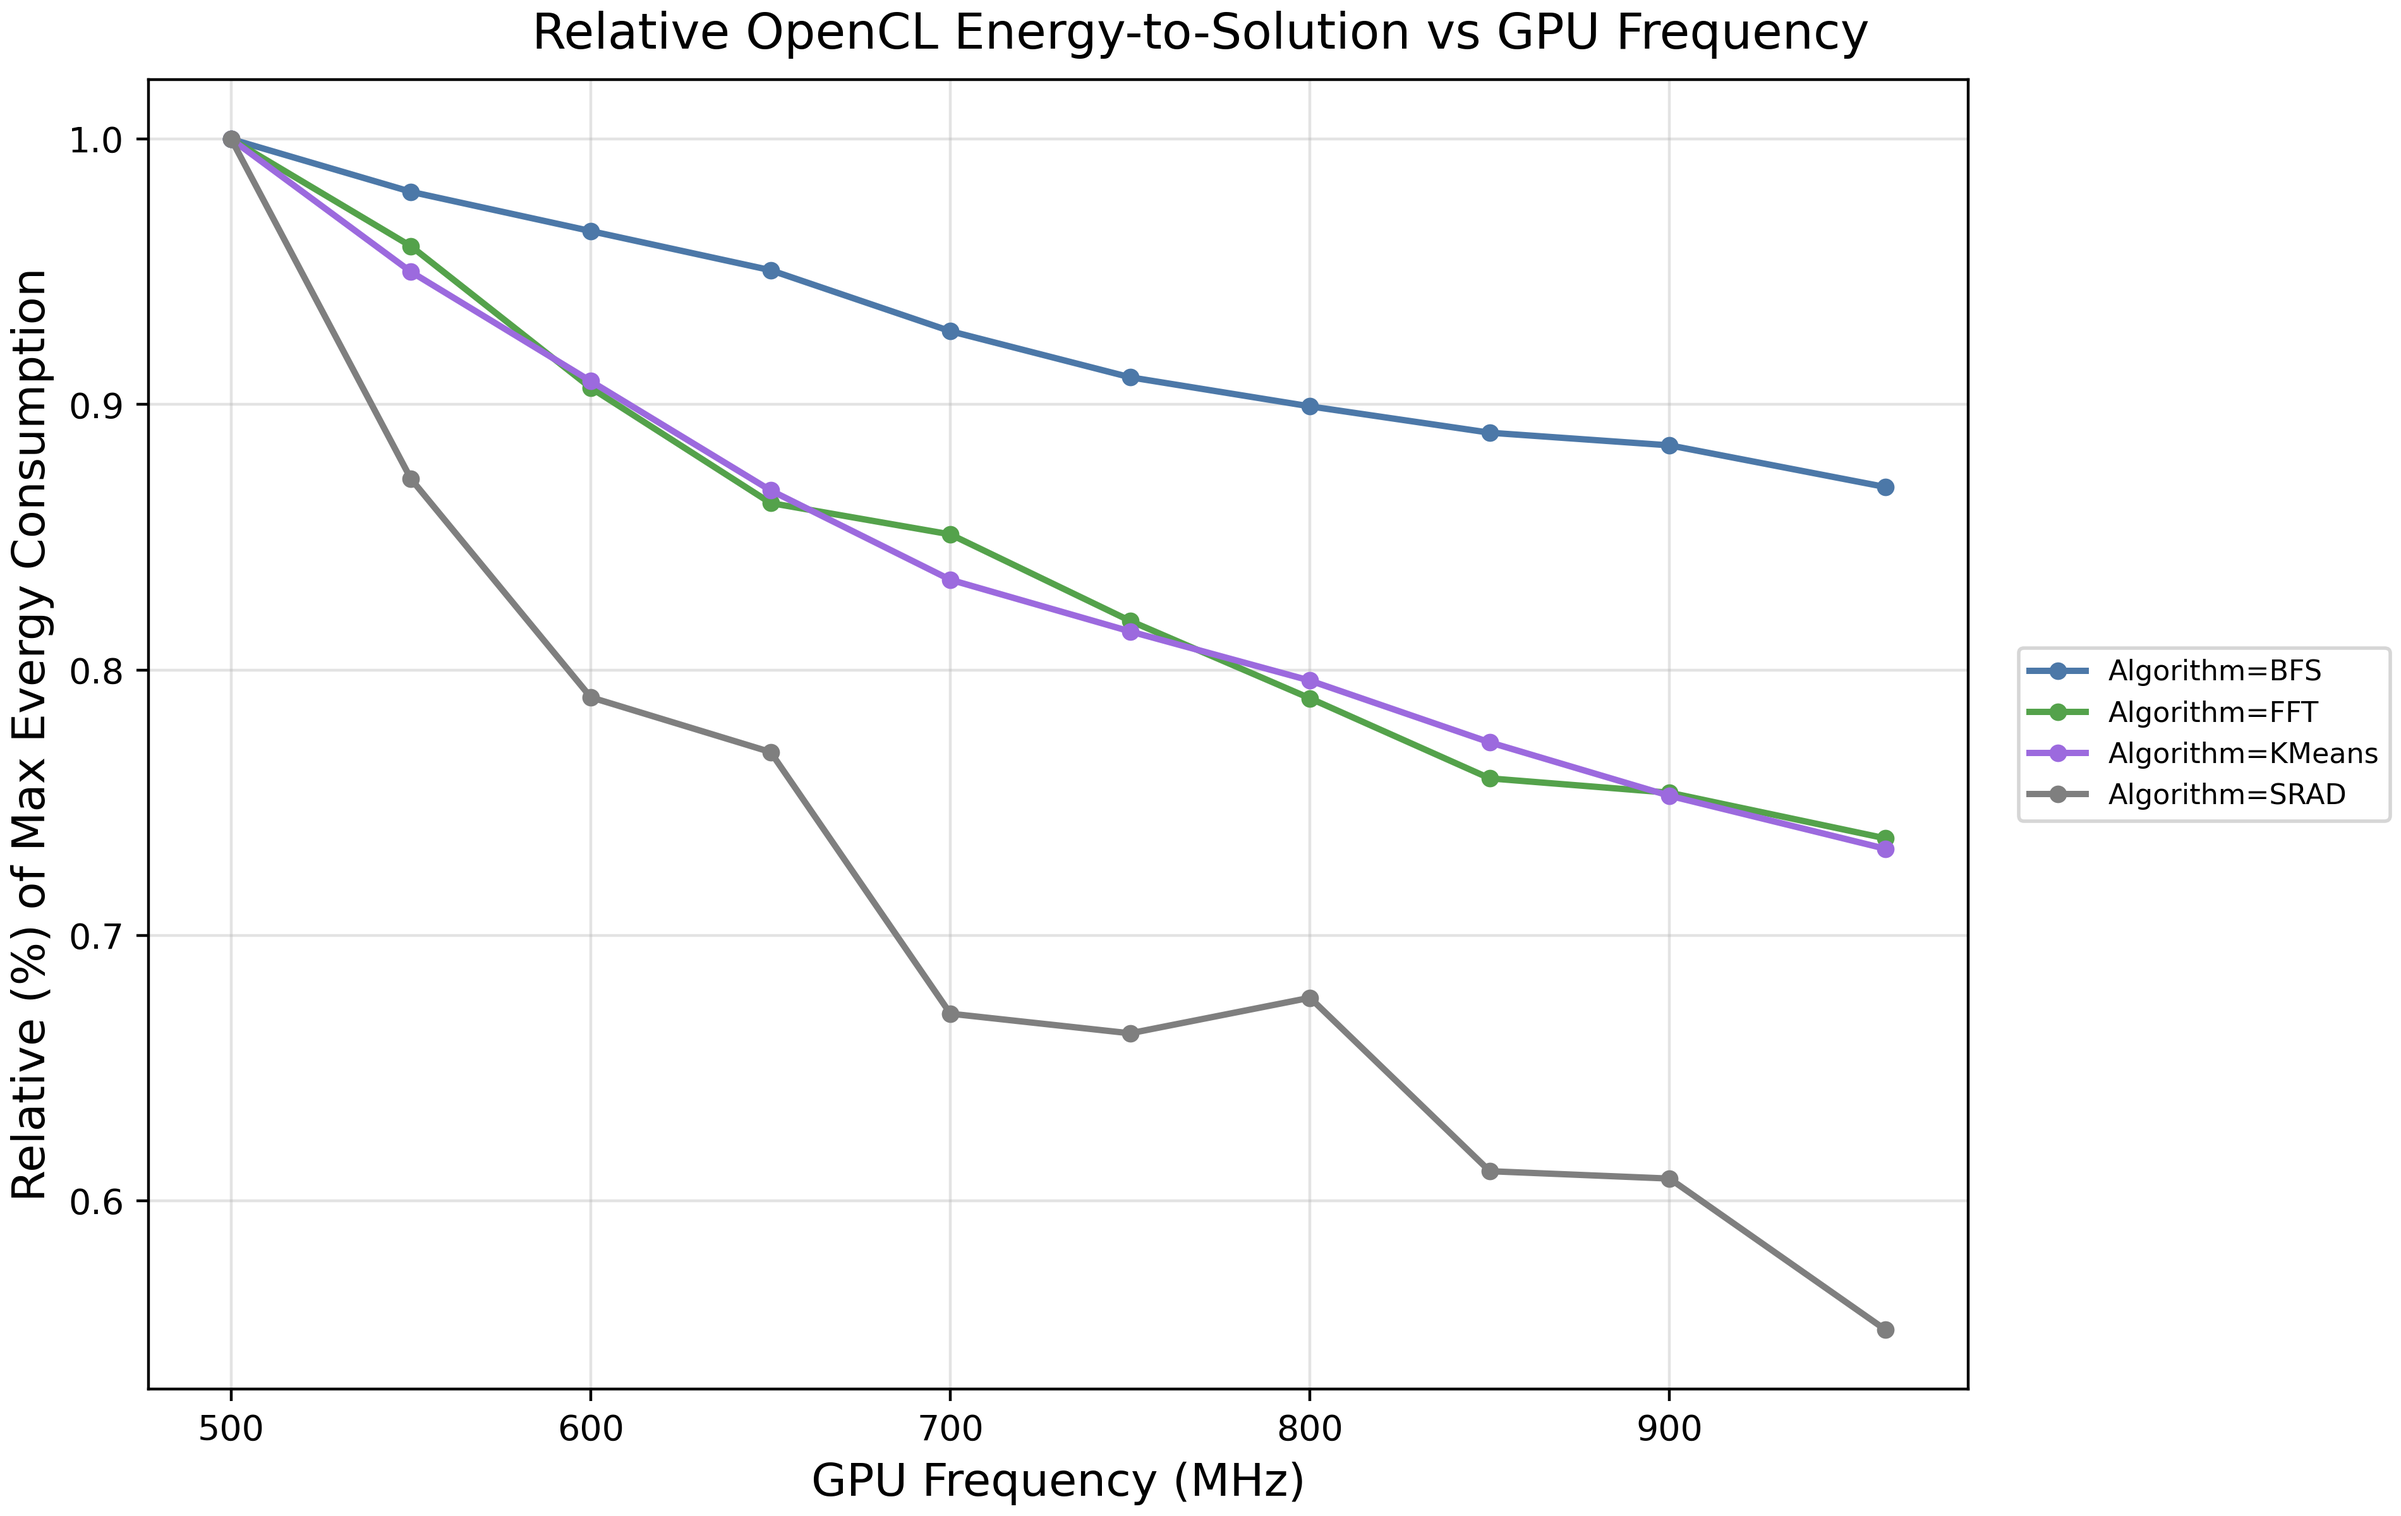
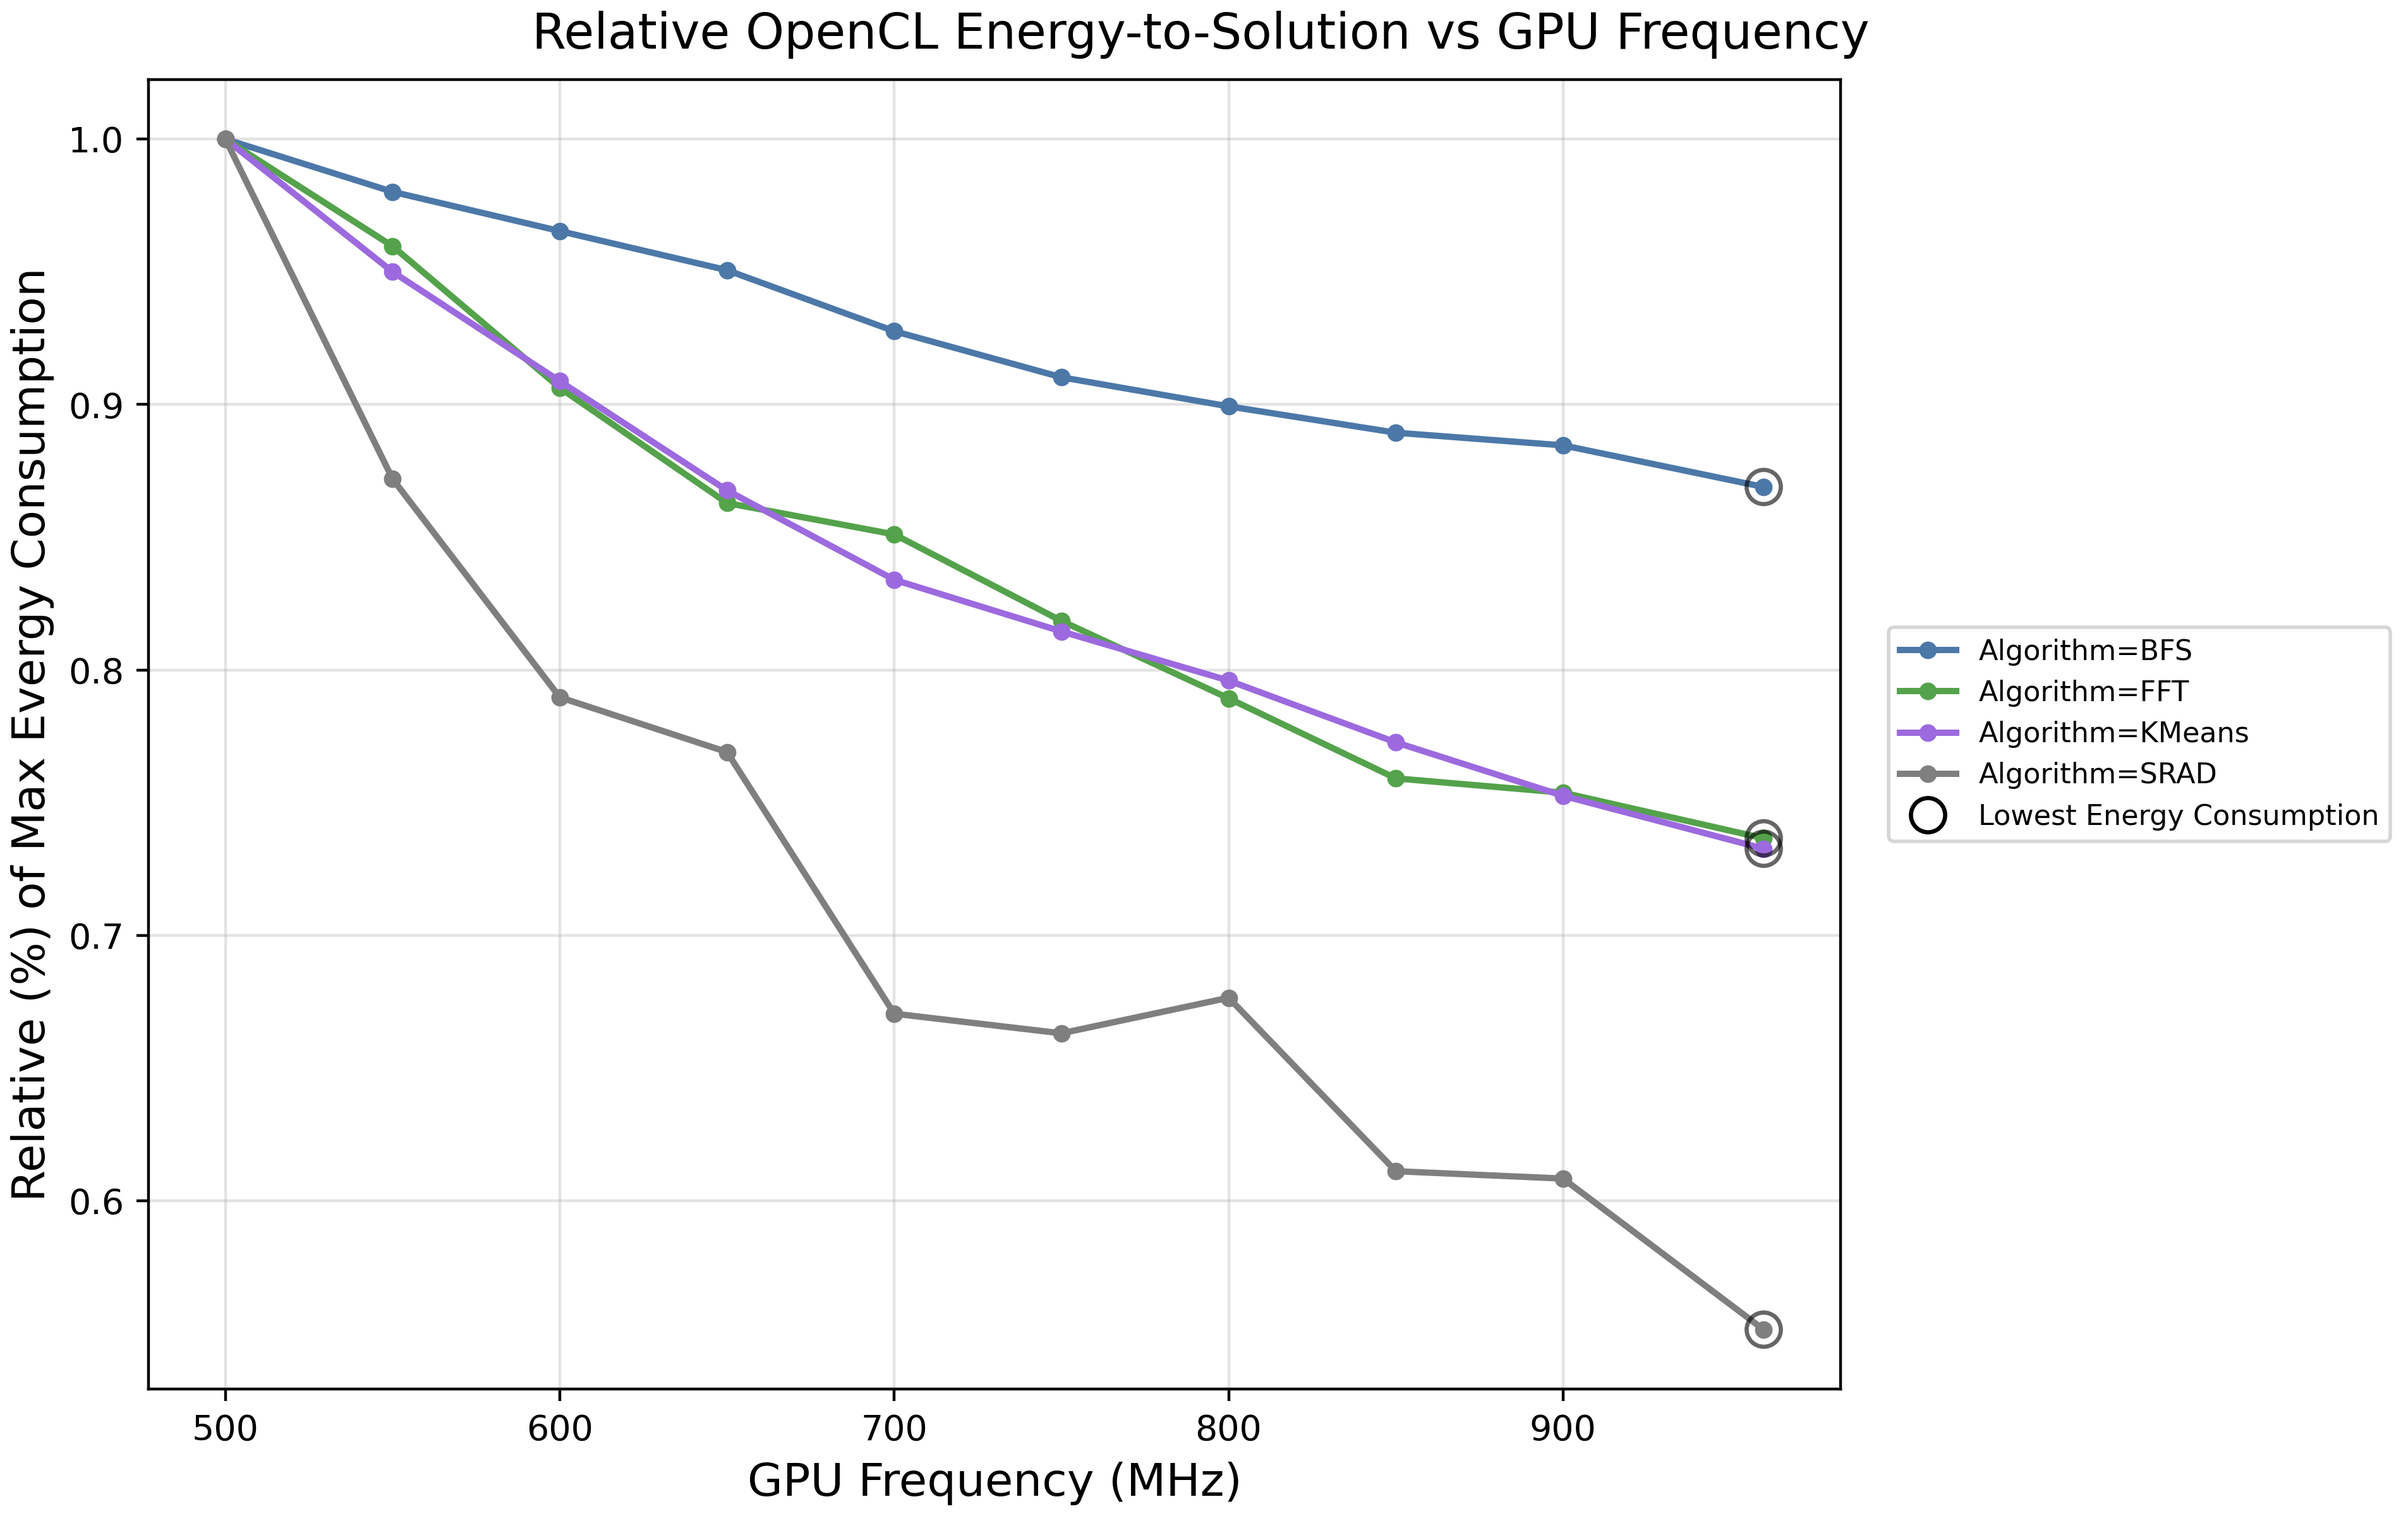
not sure

diff --git a/graph_tool_v2_series.py b/graph_tool_v2_series.py
@@ -15,6 +15,7 @@ This is intentionally compact. Treat it as a starting point rather than a framew
 from __future__ import annotations
 
 from dataclasses import dataclass, field
+import math
 from pathlib import Path
 import textwrap
 from typing import Any, Callable, Iterable, Sequence, Optional, Literal, Union
@@ -222,6 +223,17 @@ class PlotSpec:
     shade_values: Optional[dict[Any, float]] = None
     category_orders: dict[str, list[Any]] = field(default_factory=dict)
     value_aliases: dict[str, dict[Any, str]] = field(default_factory=dict)
+
+    highlight_highest_by: Optional[Union[str, Sequence[str]]] = None
+    highlight_lowest_by: Optional[Union[str, Sequence[str]]] = None
+
+    highlight_size: float = 95.0
+    highlight_linewidth: float = 1.2
+    highlight_color: str = "black"
+    highlight_alpha: float = 0.6
+
+    highlight_highest_label: Optional[str] = None
+    highlight_lowest_label: Optional[str] = None
 
 
 
@@ -514,6 +526,8 @@ class Plotter:
                     **style,
                 )
 
+        self._apply_highlight_extrema(df, ax, spec)
+
         self._finish(fig, ax, spec)
 
     def _scatter(self, df: pd.DataFrame, spec: PlotSpec) -> None:
@@ -543,6 +557,9 @@ class Plotter:
             style = styles[key]
 
             ax.scatter(group[spec.x], group[spec.y], label=label, **style)
+
+        self._apply_highlight_extrema(df, ax, spec)
+
         self._finish(fig, ax, spec)
             
 
@@ -584,6 +601,177 @@ class Plotter:
         plt.tight_layout()
         plt.savefig(spec.output, dpi=400)
         plt.close()
+
+    # ---------- helpers for highlighting highest lowest point 
+    def _groupby_cols(self, df, cols):
+        """
+        Like df.groupby(cols), but avoids awkward behavior for empty / single-column cases.
+        """
+        cols = self._as_list(cols)
+
+        if not cols:
+            return [(None, df)]
+
+        if len(cols) == 1:
+            return list(df.groupby(cols[0], dropna=False, sort=True))
+
+        return list(df.groupby(cols, dropna=False, sort=True))
+
+
+    def _highlight_scope_label(self, cols) -> str:
+        cols = self._as_list(cols)
+
+        if not cols:
+            return "all data"
+
+        return ", ".join(self.label_for(c) for c in cols)
+
+
+    def _add_highlight_legend_entry(
+        self,
+        ax,
+        *,
+        label: str,
+        color: str,
+        size: float,
+        linewidth: float,
+    ) -> None:
+        """
+        Add an empty artist so the highlight explanation appears at the bottom
+        of the normal legend.
+        """
+        ax.plot(
+            [],
+            [],
+            linestyle="None",
+            marker="o",
+            markerfacecolor="none",
+            markeredgecolor=color,
+            markeredgewidth=linewidth,
+            markersize=math.sqrt(size),
+            label=label,
+        )
+
+
+    def _highlight_extrema(
+        self,
+        ax,
+        df,
+        spec,
+        *,
+        by,
+        mode: str,
+        color: str,
+        size: float,
+        linewidth: float,
+        alpha: float,
+    ) -> int:
+        """
+        Circle the highest or lowest y-value within each group defined by `by`.
+
+        mode: "max" or "min"
+        """
+        by_cols = self._as_list(by)
+
+        required = [spec.x, spec.y, *by_cols]
+        missing = [c for c in required if c not in df.columns]
+        if missing:
+            raise KeyError(f"Cannot highlight extrema; missing columns: {missing}")
+
+        count = 0
+
+        for _, group in self._groupby_cols(df, by_cols):
+            valid = group.dropna(subset=[spec.x, spec.y])
+
+            if valid.empty:
+                continue
+
+            if mode == "max":
+                idx = valid[spec.y].idxmax()
+            elif mode == "min":
+                idx = valid[spec.y].idxmin()
+            else:
+                raise ValueError(f"Unsupported extrema highlight mode: {mode}")
+
+            row = valid.loc[idx]
+
+            ax.scatter(
+                [row[spec.x]],
+                [row[spec.y]],
+                s=size,
+                marker="o",
+                facecolors="none",
+                edgecolors=color,
+                linewidths=linewidth,
+                alpha=alpha,
+                zorder=10,
+                label="_nolegend_",
+            )
+
+            count += 1
+
+        return count
+    
+    def _apply_highlight_extrema(self, df : pd.DataFrame, ax, spec: PlotSpec):
+        # Highlight lowest y-value within each requested group.
+        if spec.highlight_lowest_by is not None:
+            count = self._highlight_extrema(
+                ax,
+                df,
+                spec,
+                by=spec.highlight_lowest_by,
+                mode="min",
+                color=spec.highlight_color,
+                size=spec.highlight_size,
+                linewidth=spec.highlight_linewidth,
+                alpha=spec.highlight_alpha,
+            )
+
+            if count > 0:
+                scope = self._highlight_scope_label(spec.highlight_lowest_by)
+                label = (
+                    spec.highlight_lowest_label
+                    or f"circled: lowest {self.label_for(spec.y)} within {scope}"
+                )
+
+                self._add_highlight_legend_entry(
+                    ax,
+                    label=label,
+                    color=spec.highlight_color,
+                    size=spec.highlight_size,
+                    linewidth=spec.highlight_linewidth,
+                )
+
+        # Highlight highest y-value within each requested group.
+        if spec.highlight_highest_by is not None:
+            highest_size = spec.highlight_size * 1.35
+
+            count = self._highlight_extrema(
+                ax,
+                df,
+                spec,
+                by=spec.highlight_highest_by,
+                mode="max",
+                color=spec.highlight_color,
+                size=highest_size,
+                linewidth=spec.highlight_linewidth,
+                alpha=spec.highlight_alpha,
+            )
+
+            if count > 0:
+                scope = self._highlight_scope_label(spec.highlight_highest_by)
+                label = (
+                    spec.highlight_highest_label
+                    or f"circled: highest {self.label_for(spec.y)} within {scope}"
+                )
+
+                self._add_highlight_legend_entry(
+                    ax,
+                    label=label,
+                    color=spec.highlight_color,
+                    size=highest_size,
+                    linewidth=spec.highlight_linewidth,
+                )
 
 
 # ---- Common metric builders -------------------------------------------------

diff --git a/pi_plot_something.py b/pi_plot_something.py
@@ -204,6 +204,9 @@ if __name__ == "__main__":
 
         series_by=["Algorithm"],
 
+        highlight_lowest_by=["Algorithm"],
+        highlight_lowest_label="Lowest Runtime",
+
         hue_by="Algorithm",
 
         base_colors={
@@ -235,6 +238,9 @@ if __name__ == "__main__":
 
         series_by=["Algorithm"],
 
+        highlight_lowest_by=["Algorithm"],
+        highlight_lowest_label="Lowest Power",
+
         hue_by="Algorithm",
 
         base_colors={
@@ -263,6 +269,9 @@ if __name__ == "__main__":
         output="graphs/opencl_energy_j_by_gpu_freq.png",
 
         series_by=["Algorithm"],
+
+        highlight_lowest_by=["Algorithm"],
+        highlight_lowest_label="Lowest Energy Consumption",
 
         hue_by="Algorithm",
 
@@ -295,6 +304,9 @@ if __name__ == "__main__":
         output="graphs/openmp_runtime_by_cpu_freq.png",
 
         series_by=["Algorithm", "Variant"],
+
+        highlight_lowest_by=["Algorithm", "Variant"],
+        highlight_lowest_label="Lowest Runtime",
 
         hue_by="Algorithm",
         shade_by="Variant",
@@ -331,6 +343,9 @@ if __name__ == "__main__":
 
         series_by=["Algorithm", "Variant"],
 
+        highlight_lowest_by=["Algorithm", "Variant"],
+        highlight_lowest_label="Lowest Power",
+
         hue_by="Algorithm",
         shade_by="Variant",
         marker_by="Variant",
@@ -363,6 +378,9 @@ if __name__ == "__main__":
         output="graphs/openmp_energy_j_by_cpu_freq.png",
 
         series_by=["Algorithm", "Variant"],
+
+        highlight_lowest_by=["Algorithm", "Variant"],
+        highlight_lowest_label="Lowest Energy Consumption",
 
         hue_by="Algorithm",
         shade_by="Variant",
